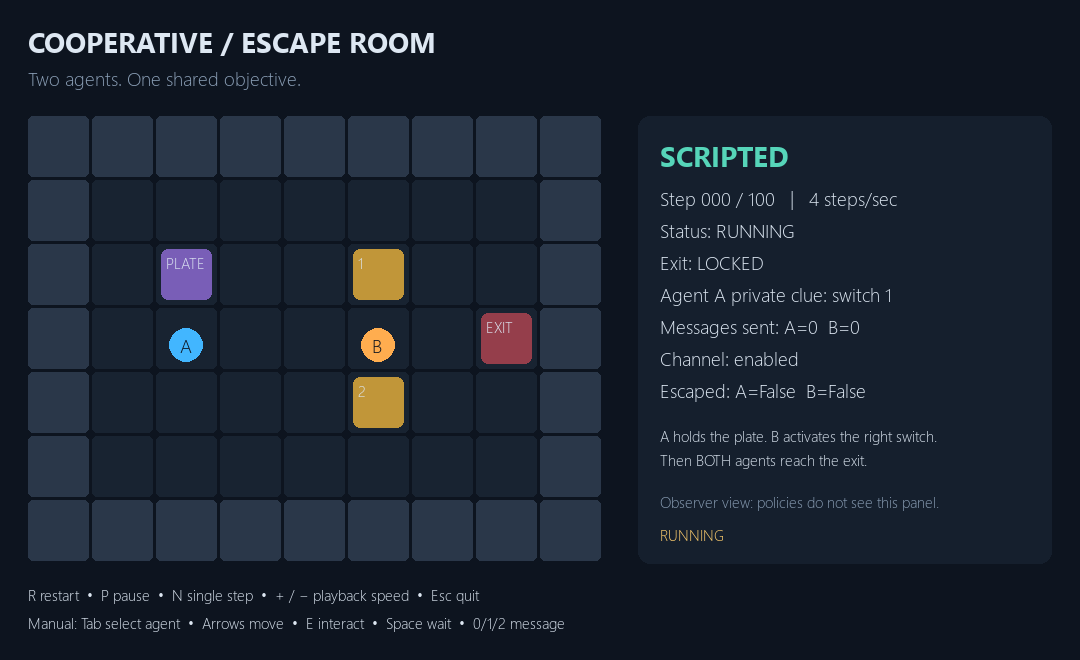
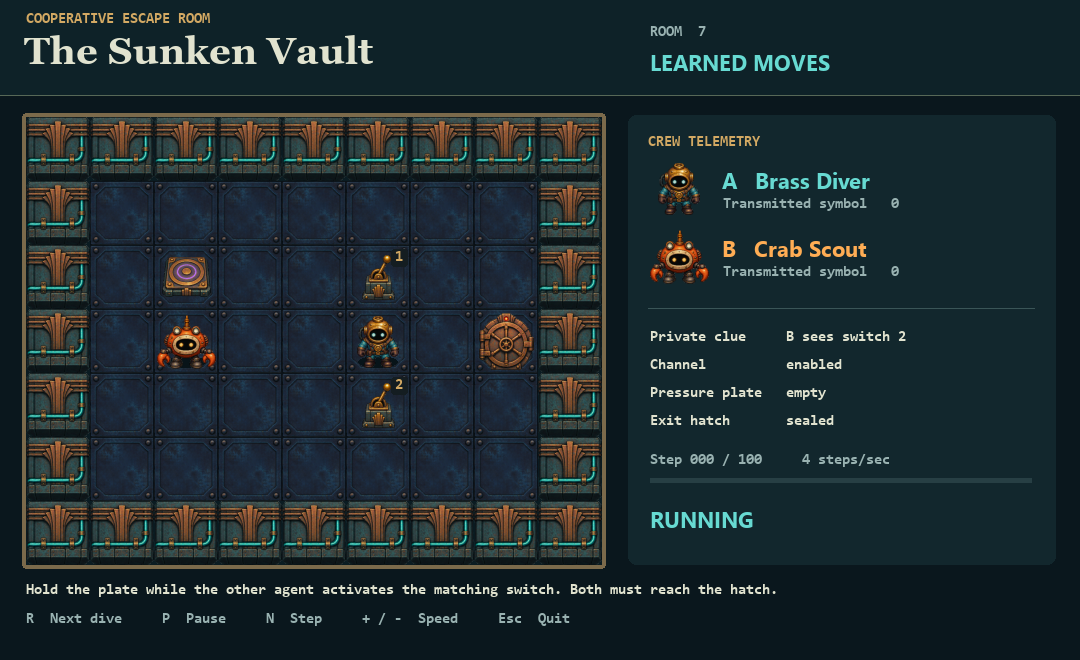
Give the escape room a submerged vault and animated salvage crew

Changed region(s): [[0.0, 0.0, 0.9472, 0.9697], [0.5806, 0.0303, 0.7639, 0.1212]]

diff --git a/vault_view.py b/vault_view.py
@@ -1,0 +1,102 @@
+"""Pygame art and observer instruments for the submerged observatory."""
+import math
+from pathlib import Path
+import pygame
+
+
+class VaultView:
+    def __init__(self):
+        folder = Path(__file__).parent / 'assets' / 'vault'
+        self.sprites = {}
+        for name,size in dict(diver=52,crab=59,wall=64,floor=64,plate=49,
+                              switch=45,shut=57,open=57).items():
+            source = pygame.image.load(folder / f'{name}.png').convert_alpha()
+            w,h = source.get_size()
+            dims = (64,64) if name in ('floor','wall') else (round(size*w/max(w,h)),round(size*h/max(w,h)))
+            self.sprites[name] = pygame.transform.smoothscale(source,dims)
+        self.font = pygame.font.SysFont('consolas',15,bold=True)
+        self.name = pygame.font.SysFont('georgia',38,bold=True)
+        self.medium = pygame.font.SysFont('segoeui',22,bold=True)
+        self.colors = [(103,218,210),(255,173,84)]
+        self.board_key = None
+        self.room = None
+
+    def draw(self, screen, env, mode, seed, speed, paused, selected):
+        ink=(225,227,207); muted=(153,178,177); brass=(211,169,99)
+        def write(s,x,y,color=ink,font=None):
+            screen.blit((font or self.font).render(str(s),True,color),(x,y))
+        def sprite(name,x,y):
+            img=self.sprites[name]
+            screen.blit(img,img.get_rect(center=(round(x),round(y))))
+        screen.fill((10,23,29))
+        pygame.draw.rect(screen,(14,34,40),(0,0,1080,96))
+        pygame.draw.line(screen,(87,104,87),(0,95),(1080,95))
+        write('COOPERATIVE ESCAPE ROOM',26,11,brass)
+        write('The Sunken Vault',24,29,ink,self.name)
+        write(f'ROOM  {seed}',650,24,muted)
+        write(mode.upper(),650,47,self.colors[0],self.medium)
+        ox,oy=26,117
+        pygame.draw.rect(screen,(123,106,75),(ox-4,oy-4,584,456),border_radius=4)
+        key=tuple(map(tuple,env.config.get('walls',())))
+        if key!=self.board_key:
+            self.board_key=key
+            self.board=pygame.Surface((576,448))
+            self.board.fill((11,28,34))
+            for y in range(7):
+                for x in range(9):
+                    wall=x in (0,8) or y in (0,6) or (x,y) in key
+                    self.board.blit(self.sprites['wall' if wall else 'floor'],(64*x,64*y))
+        screen.blit(self.board,(ox,oy))
+        cfg=env.config
+        def center(p):
+            return ox+p[0]*64+32,oy+p[1]*64+32
+        px,py=center(cfg['plate'])
+        active=tuple(cfg['plate']) in env.pos
+        if active: pygame.draw.circle(screen,(170,132,221),(px,py),28,3)
+        sprite('plate',px,py)
+        for number,p in enumerate(cfg['switches'],1):
+            x,y=center(p); sprite('switch',x,y)
+            pygame.draw.rect(screen,(20,29,33),(x+13,y-28,17,18),border_radius=3)
+            write(number,x+17,y-28,brass)
+        sprite('open' if env.unlocked else 'shut',*center(cfg['exit']))
+        now=pygame.time.get_ticks()
+        if self.room is not env or env.steps==0:
+            self.room=env
+            self.previous=list(env.pos); self.current=list(env.pos); self.moved=now
+        elif self.current!=env.pos:
+            self.previous=self.current; self.current=list(env.pos); self.moved=now
+        blend=min(1,(now-self.moved)/min(140,850/speed))
+        for i,kind in enumerate(('diver','crab')):
+            if env.escaped[i]: continue
+            a,b=self.previous[i],self.current[i]
+            x,y=center((a[0]+(b[0]-a[0])*blend,a[1]+(b[1]-a[1])*blend))
+            x,y=round(x),round(y)
+            pygame.draw.ellipse(screen,(8,20,25),(x-20,y+15,40,12))
+            if mode=='Manual' and selected==i:
+                pygame.draw.ellipse(screen,self.colors[i],(x-26,y+12,52,17),2)
+            sprite(kind,x,y+round(1.5*math.sin(now/350+i)))
+        pygame.draw.rect(screen,(18,39,45),(628,115,428,450),border_radius=8)
+        write('CREW TELEMETRY',648,134,brass)
+        for i,(kind,caption) in enumerate([('diver','A   Brass Diver'),('crab','B   Crab Scout')]):
+            top=165+68*i
+            sprite(kind,679,top+24)
+            write(caption,722,top,self.colors[i],self.medium)
+            write('ESCAPED' if env.escaped[i] else f'Transmitted symbol   {env.messages[i]}',723,top+31,muted)
+        pygame.draw.line(screen,(58,85,87),(648,308),(1034,308))
+        reader='AB'[getattr(env,'clue_holder',0)]
+        write(f'Private clue     {reader} sees switch {env.clue+1}',650,329)
+        write(f'Channel          {"enabled" if env.communication else "disabled"}',650,357)
+        write(f'Pressure plate   {"occupied" if active else "empty"}',650,385)
+        write(f'Exit hatch       {"OPEN" if env.unlocked else "sealed"}',650,413)
+        write(f'Step {env.steps:03d} / {cfg["max_steps"]}     {speed} steps/sec',650,452,muted)
+        pygame.draw.rect(screen,(39,63,68),(650,478,382,5))
+        pygame.draw.rect(screen,brass,(650,478,round(382*env.steps/cfg['max_steps']),5))
+        status='PAUSED' if paused else env.outcome.upper()
+        write(status,650,504,self.colors[0] if env.outcome!='wrong switch' else self.colors[1],self.medium)
+        if env.done and not paused:
+            write('R for next room' if mode=='Manual' else 'Next dive starts automatically',650,538,muted)
+        rule='Hold the plate while the other agent activates the matching switch. Both must reach the hatch.'
+        write(rule,26,582,ink)
+        write('R  Next dive     P  Pause     N  Step     + / -  Speed     Esc  Quit',26,611,muted)
+        if mode=='Manual':
+            write('Tab  Select     Arrows  Move     E  Use     Space  Wait     0/1/2  Signal',26,634,brass)

diff --git a/demo.py b/demo.py
@@ -48,10 +48,9 @@ def main():
         return room, room.reset(seed)[0]
     env, obs = start_round(round_seed)
     pygame.init(); screen=pygame.display.set_mode((1080,660)); pygame.display.set_caption('Cooperative Escape Room | AI Research MVP')
-    font=pygame.font.SysFont('segoeui',19); small=pygame.font.SysFont('segoeui',15); title=pygame.font.SysFont('segoeui',28,bold=True)
+    from vault_view import VaultView
+    view = VaultView()
     clock=pygame.time.Clock(); selected=0; pending=[0,0]; paused=False; speed=4; accumulator=0; running=True; frames=0
-    colors=[(66,182,255),(255,173,79)]
-    def text(s,x,y,color=(221,231,242),f=None): screen.blit((f or font).render(s,True,color),(x,y))
     def advance(actions=None):
         nonlocal obs
         if env.done:return
@@ -97,40 +96,8 @@ def main():
                 env,obs=start_round(round_seed); accumulator=0
             elif not env.done and accumulator>=1/speed:
                 advance(); accumulator=0
-        screen.fill((13,20,31)); text('COOPERATIVE / ESCAPE ROOM',28,22,f=title)
-        text(f'Room seed {round_seed}',28,65,color=(139,159,182))
-        tile=64; ox=28; oy=116
-        for y in range(7):
-            for x in range(9):
-                rect=pygame.Rect(ox+x*tile,oy+y*tile,tile-3,tile-3)
-                wall=x in (0,8) or y in (0,6) or [x,y] in env.config.get('walls', ())
-                pygame.draw.rect(screen,(42,55,73) if wall else (24,35,49),rect,border_radius=5)
-        objects=[(env.config['plate'],'PLATE',(121,94,183)),(env.config['switches'][0],'1',(193,150,57)),(env.config['switches'][1],'2',(193,150,57)),(env.config['exit'],'EXIT',(53,167,121) if env.unlocked else (149,62,75))]
-        for (x,y),label,color in objects:
-            r=pygame.Rect(ox+x*tile+5,oy+y*tile+5,tile-13,tile-13)
-            pygame.draw.rect(screen,color,r,border_radius=7)
-            text(label,r.x+5,r.y+3,f=small)
-        for i,(x,y) in enumerate(env.pos):
-            if env.escaped[i]:continue
-            center=(ox+x*tile+30,oy+y*tile+37)
-            pygame.draw.circle(screen,colors[i],center,17)
-            if args.controller=='manual' and selected==i:pygame.draw.circle(screen,(245,247,250),center,22,2)
-            text(IDS[i],center[0]-6,center[1]-13,color=(13,20,31))
-        panel=pygame.Rect(638,116,414,448); pygame.draw.rect(screen,(21,31,45),panel,border_radius=12)
-        label={'manual':'Manual','scripted':'Scripted','ppo':'Trained PPO','options':'Learned cooperation','free':'Learned moves','map':'Full-map PPO'}[args.controller]
-        text(label.upper(),660,136,color=(86,213,185),f=title)
-        reader=IDS[getattr(env,'clue_holder',0)]
-        lines=[f'Step {env.steps:03d} / 100   |   {speed} steps/sec',f'Status: {env.outcome.upper()}',f'Exit: {"UNLOCKED" if env.unlocked else "LOCKED"}',f'Agent {reader} private clue: switch {env.clue+1}',f'Messages sent: A={env.messages[0]}  B={env.messages[1]}',f'Channel: {"enabled" if communication else "disabled"}',f'Escaped: A={env.escaped[0]}  B={env.escaped[1]}']
-        for j,line in enumerate(lines): text(line,660,185+j*32)
-        rule='Either agent can hold the plate or use a switch.' if args.controller in ('map','free') else 'A holds the plate. B activates the right switch.'
-        text(rule,660,425,f=small)
-        text('Then BOTH agents reach the exit.',660,449,f=small)
-        text('Observer view: policies do not see this panel.',660,491,color=(139,159,182),f=small)
-        finished = 'R for next room' if args.controller=='manual' else 'Next round starts automatically'
-        text('PAUSED' if paused else (finished if env.done else 'RUNNING'),660,524,color=(255,206,109),f=small)
-        text('R next round  •  P pause  •  N single step  •  + / − playback speed  •  Esc quit',28,584,f=small)
-        if args.controller=='manual':
-            text('Tab select agent  •  Arrows move  •  E interact  •  Space wait  •  0/1/2 message',28,612,f=small)
+        mode = {'manual':'Manual','scripted':'Scripted','ppo':'Trained PPO','options':'Learned cooperation','free':'Learned moves','map':'Full-map PPO'}[args.controller]
+        view.draw(screen, env, mode, round_seed, speed, paused, selected)
         pygame.display.flip(); frames+=1
         if args.screenshot and frames==1: pygame.image.save(screen,args.screenshot)
         if args.frames and frames>=args.frames:running=False

diff --git a/assets/vault/ART.md b/assets/vault/ART.md
@@ -1,0 +1,3 @@
+# The Sunken Vault artwork
+
+The eight transparent sprites were generated together for this project with OpenAI image generation, then cropped and scaled for a 64-pixel grid. The diver and crab use the same collision rules as the original agents. The floor and wall fill one cell. The pressure plate and lever switches sit beneath the characters. Separate closed and open hatch images show door state. The renderer supplies movement interpolation, character idle motion, labels, selection and status feedback.

diff --git a/README.md b/README.md
@@ -4,6 +4,8 @@ Can two agents learn to solve a puzzle together, and does exchanging a private c
 
 **Joining the project?** Start with the [partner handoff](HANDOFF.md) for the decisions, evidence, limitations, and next experiment.
 
+![The Sunken Vault game window](preview.png)
+
 ## Run your first demo
 
 On Windows, install Python 3.12, open PowerShell, and run:
